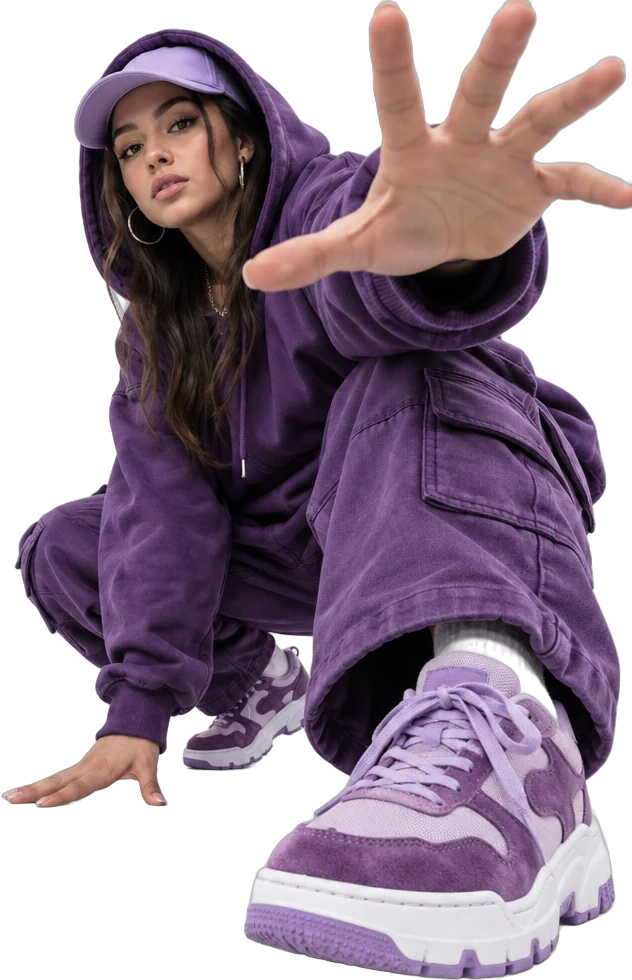
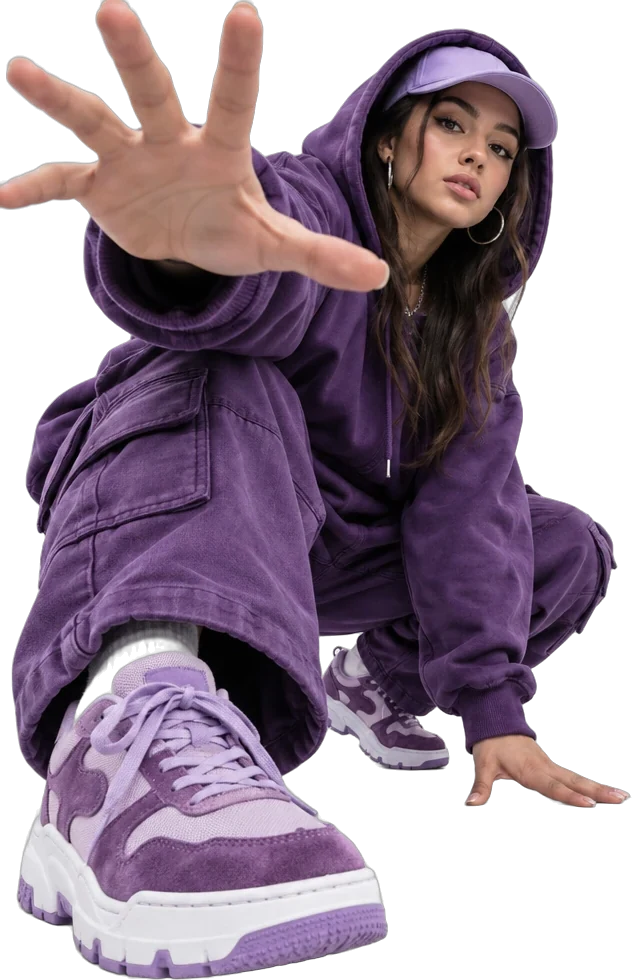
feat(landing): hero claro con tipografía Unbounded, copy PURO FLOW y más profundidad
Claude-Session: https://claude.ai/code/session_01QKjwJzfd5PHUhg3qYS6fT8

diff --git a/frontend/src/estilos/index.css b/frontend/src/estilos/index.css
@@ -1,6 +1,7 @@
 @import url('https://fonts.googleapis.com/css2?family=Anton&display=swap');
 @import url('https://fonts.googleapis.com/css2?family=Inter:wght@300;400;500;600;700&display=swap');
 @import url('https://fonts.googleapis.com/css2?family=Barlow+Condensed:wght@400;600;700;800&display=swap');
+@import url('https://fonts.googleapis.com/css2?family=Unbounded:wght@700;900&display=swap');
 @import 'tailwindcss';
 
 @variant dark (&:where(.dark, .dark *));
@@ -189,7 +190,7 @@ textarea { cursor: text; }
   *, *::before, *::after { transition-duration: 0.01ms !important; }
 }
 /* ---------- Hero del modo claro (titular gigante, persona recortada y foco de tinta lila) ---------- */
-/* Anton con line-height 1: la mayúscula empieza 0.064em bajo el borde superior y la línea base queda a 0.923em */
+/* Unbounded Black con line-height 1: la mayúscula empieza 0.125em bajo el borde y la línea base queda a 0.875em */
 .hc { padding-top: 6rem; }
 .hc-lienzo {
   position: relative;
@@ -201,34 +202,51 @@ textarea { cursor: text; }
   --py: 0;
 }
 .hc-capa { display: contents; }
+.hc-capa-fondo { display: none; }
 .hc-titular {
   display: flex;
   flex-direction: column;
+  font-family: 'Unbounded', 'Anton', sans-serif;
+  font-weight: 900;
   line-height: 1;
+  letter-spacing: -0.02em;
 }
 .hc-linea1,
 .hc-linea2 { white-space: nowrap; }
-.hc-linea1 { font-size: 24cqw; margin-left: -0.03em; }
-.hc-linea2 { font-size: 21cqw; align-self: flex-end; margin-right: -0.03em; margin-top: 0.12em; }
+.hc-linea1 { font-size: 25cqw; margin-left: -0.04em; }
+.hc-linea2 { font-size: 23cqw; align-self: flex-end; margin-right: -0.02em; margin-top: 0.06em; }
 
-/* Cada letra sube desde una máscara que abraza las mayúsculas (deja espacio para tildes) */
-.hc-letra-mascara { clip-path: inset(-0.3em -0.25em 0.077em -0.25em); }
+/* Volumen: el morado tiene una extrusión 3D hacia abajo y la palabra oscura una sombra lila tipo cartel */
+.hc-base-linea1 {
+  color: var(--color-purple-700);
+  text-shadow:
+    0.008em 0.008em 0 #4a3866, 0.016em 0.016em 0 #43325e, 0.024em 0.024em 0 #3c2d56,
+    0.032em 0.032em 0 #36284e, 0.04em 0.04em 0 #2e2240,
+    0.06em 0.09em 0.08em rgba(46, 34, 64, 0.28);
+}
+.hc-base-linea2 {
+  color: #1d1528;
+  text-shadow: 0.045em 0.045em 0 #c9b3f0, 0.07em 0.11em 0.09em rgba(46, 34, 64, 0.18);
+}
+
+/* Cada letra sube desde una máscara que abraza las mayúsculas */
+.hc-letra-mascara { clip-path: inset(-0.3em -0.25em -0.2em -0.25em); }
 .hc-letra { animation: hc-sube 0.9s cubic-bezier(0.22, 1, 0.36, 1) both; }
-@keyframes hc-sube { from { transform: translateY(105%); } to { transform: none; } }
+@keyframes hc-sube { from { transform: translateY(115%); opacity: 0; } to { transform: none; opacity: 1; } }
 
 /* Móvil y tablet: la persona va debajo, sobre un panel lila, montada un poco sobre el titular */
 .hc-capa-persona.hc-capa-base {
   position: relative;
   display: flex;
   justify-content: center;
-  margin-top: -6cqw;
+  margin-top: -4cqw;
 }
 .hc-capa-persona.hc-capa-base::before {
   content: '';
   position: absolute;
   inset: 22% 0 0;
   border-radius: 1.5rem 1.5rem 0 0;
-  background: linear-gradient(180deg, #efe7fb 0%, #e2d4f7 100%);
+  background: radial-gradient(circle at 50% 35%, #f4eefc 0%, #e4d6f8 60%, #d8c6f4 100%);
 }
 .hc-persona {
   position: relative;
@@ -237,6 +255,8 @@ textarea { cursor: text; }
   max-width: 100%;
   object-fit: contain;
 }
+/* Sombra proyectada: una copia de la silueta, oscura y desenfocada, detrás de la persona */
+.hc-sombra-persona { display: none; }
 .hc-persona-entra { animation: hc-persona 1.3s 0.4s cubic-bezier(0.22, 1, 0.36, 1) both; transform-origin: bottom; }
 @keyframes hc-persona {
   from { clip-path: inset(100% 0 0 0); scale: 1.06; }
@@ -253,6 +273,28 @@ textarea { cursor: text; }
   letter-spacing: 0.2em;
 }
 
+/* Sello giratorio */
+.hc-sello { display: none; }
+.hc-sello-texto { width: 100%; height: 100%; animation: hc-gira 18s linear infinite; }
+.hc-sello-texto text {
+  font-family: 'Barlow Condensed', sans-serif;
+  font-weight: 700;
+  font-size: 11.5px;
+  letter-spacing: 2.6px;
+  fill: #1d1528;
+}
+.hc-sello-centro {
+  position: absolute;
+  inset: 30%;
+  display: grid;
+  place-items: center;
+  border-radius: 50%;
+  background: var(--color-purple-700);
+  color: #fff;
+  font-size: 1.1em;
+}
+@keyframes hc-gira { to { rotate: 360deg; } }
+
 /* Composición ancha: todo se coloca sobre un lienzo que ocupa la pantalla, como la referencia */
 @media (min-width: 1024px) and (min-aspect-ratio: 5/4) {
   .hc { height: 100svh; min-height: 620px; padding-top: 0; }
@@ -263,15 +305,38 @@ textarea { cursor: text; }
     padding: 0;
     container-type: size;
     --u: max(min(100cqw / 1280, (100cqh - 40px) / 600), 100cqw / 1600);
-    --top: calc(14 * var(--u));
-    --l2-top: calc(var(--top) + 266 * var(--u));
-    --ph: min(100cqh - var(--top) - 24 * var(--u), 820 * var(--u));
+    --top: calc(18 * var(--u));
+    --l2-top: calc(var(--top) + 236 * var(--u));
+    --ph: min(100cqh - var(--top) - 10 * var(--u), 820 * var(--u));
   }
   .hc-capa { position: absolute; inset: 0; display: block; pointer-events: none; }
+  .hc-capa-fondo { z-index: -1; }
   .hc-capa-titular { z-index: 0; }
   .hc-capa-persona { z-index: 2; }
   .hc-capa-persona.hc-capa-base { position: absolute; display: block; margin: 0; }
   .hc-capa-persona.hc-capa-base::before { display: none; }
+
+  /* Halo lila detrás de la persona y sombra en el piso: dan la sensación de espacio */
+  .hc-halo {
+    position: absolute;
+    right: calc(-60 * var(--u));
+    top: calc(90 * var(--u));
+    width: calc(560 * var(--u));
+    aspect-ratio: 1;
+    border-radius: 50%;
+    background: radial-gradient(circle at 45% 40%, #f1e9fc 0%, #e3d4f8 45%, rgba(227, 212, 248, 0) 70%);
+    translate: calc(var(--px) * 6px) calc(var(--py) * 4px);
+  }
+  .hc-piso {
+    position: absolute;
+    right: calc(10 * var(--u));
+    bottom: calc(-14 * var(--u));
+    width: calc(460 * var(--u));
+    height: calc(48 * var(--u));
+    border-radius: 50%;
+    background: radial-gradient(closest-side, rgba(46, 34, 64, 0.32), rgba(46, 34, 64, 0));
+    translate: calc(var(--px) * 14px) 0;
+  }
 
   /* Las capas base se ocultan dentro del foco; las de tinta solo existen dentro de él */
   .hc-capa-base {
@@ -291,14 +356,14 @@ textarea { cursor: text; }
   .hc-linea1,
   .hc-linea2 { position: absolute; margin: 0; }
   .hc-linea1 {
-    top: calc(var(--top) - 0.064em);
-    left: -0.03em;
-    font-size: calc(240 * var(--u));
+    top: calc(var(--top) - 0.125em);
+    left: -0.04em;
+    font-size: calc(232 * var(--u));
     translate: calc(var(--px) * -6px) calc(var(--py) * -2.4px);
   }
   .hc-linea2 {
-    top: calc(var(--l2-top) - 0.064em);
-    right: -0.03em;
+    top: calc(var(--l2-top) - 0.125em);
+    left: calc(150 * var(--u));
     font-size: calc(215 * var(--u));
     translate: calc(var(--px) * -9px) calc(var(--py) * -2.7px);
   }
@@ -308,32 +373,49 @@ textarea { cursor: text; }
   .hc-persona {
     position: absolute;
     bottom: 0;
-    left: calc(40 * var(--u));
+    right: calc(-6 * var(--u));
     height: var(--ph);
     max-width: none;
     translate: calc(var(--px) * 14px) 0;
+    /* Suaviza el borde izquierdo de la foto, donde termina la mano */
+    -webkit-mask-image: linear-gradient(to right, transparent 0, #000 7%), linear-gradient(to top, #000 55%, transparent 55%);
+    mask-image: linear-gradient(to right, transparent 0, #000 7%), linear-gradient(to top, #000 55%, transparent 55%);
+    -webkit-mask-composite: source-over;
+    mask-composite: add;
   }
   .hc-tinta-persona { filter: url(#fa-tinta-duotono); }
+  .hc-sombra-persona {
+    display: block;
+    filter: brightness(0) blur(14px);
+    opacity: 0.22;
+    translate: calc(var(--px) * 10px - 18 * var(--u)) calc(14 * var(--u));
+  }
+
+  .hc-sello {
+    position: absolute;
+    z-index: 3;
+    display: block;
+    left: calc(560 * var(--u));
+    bottom: calc(34 * var(--u));
+    width: calc(124 * var(--u));
+    height: calc(124 * var(--u));
+    font-size: calc(14 * var(--u));
+    translate: calc(var(--px) * -16px) calc(var(--py) * -8px);
+  }
 
   .hc-acciones {
     position: absolute;
     z-index: 3;
-    left: calc(560 * var(--u));
+    left: 0;
     bottom: calc(30 * var(--u));
     margin: 0;
   }
   .hc-roles { font-size: max(11px, 12 * var(--u)); }
-  .hc-sedes {
-    position: absolute;
-    z-index: 3;
-    right: 0;
-    top: calc(var(--top) + 8 * var(--u));
-    margin: 0;
-    font-size: max(11px, 12 * var(--u));
-  }
+  .hc-sedes { margin-top: calc(18 * var(--u)); font-size: max(11px, 12 * var(--u)); }
 }
 
 @media (prefers-reduced-motion: reduce) {
   .hc-letra,
-  .hc-persona-entra { animation: none; }
+  .hc-persona-entra,
+  .hc-sello-texto { animation: none; }
 }

diff --git a/frontend/src/modulos/landing/componentes/HeroClaro.tsx b/frontend/src/modulos/landing/componentes/HeroClaro.tsx
@@ -62,8 +62,8 @@ export default function HeroClaro() {
   const lienzoRef = useRef<HTMLDivElement>(null);
   const [focoActivo, setFocoActivo] = useState(false);
 
-  const linea1 = t('Bailamos');
-  const linea2 = t('sin límites');
+  const linea1 = t('Puro');
+  const linea2 = 'Flow';
   const altPersona = t('Bailarina urbana agachada estirando la mano hacia la cámara');
 
   // El foco solo existe con mouse, en la composición ancha y sin movimiento reducido; se activa tras la entrada
@@ -166,12 +166,12 @@ export default function HeroClaro() {
         <div className="hc-capa hc-capa-titular hc-capa-base">
           <h1 className="hc-titular display uppercase">
             <span className="sr-only">
-              {linea1} {linea2}
+              {linea1} {linea2}. {t('Academia de Hip Hop urbano en Bello y Copacabana')}
             </span>
-            <span className="hc-linea1 text-purple-700">
+            <span className="hc-linea1 hc-base-linea1">
               <PalabraEnmascarada texto={linea1} retraso={0.1} desde="abajo" />
             </span>
-            <span className="hc-linea2 text-[#1d1528]">
+            <span className="hc-linea2 hc-base-linea2">
               <PalabraEnmascarada texto={linea2} retraso={0.25} desde="arriba" inversa />
             </span>
           </h1>
@@ -186,6 +186,13 @@ export default function HeroClaro() {
             </div>
           </div>
         )}
+
+        {/* Fondo con profundidad: halo lila detrás de la persona y su sombra en el piso */}
+        <div aria-hidden="true" className="hc-capa hc-capa-fondo">
+          <span className="hc-halo" />
+          <span className="hc-piso" />
+          <img src={bailarina} alt="" width={632} height={980} decoding="async" className="hc-persona hc-sombra-persona" />
+        </div>
 
         {/* Persona base */}
         <div className="hc-capa hc-capa-persona hc-capa-base">
@@ -220,17 +227,31 @@ export default function HeroClaro() {
               {t('Conoce más')}
             </button>
           </div>
+        <button type="button" onClick={() => scrollTo('#sedes')} className="hc-sedes group font-condensed uppercase text-[#5a4577]">
+            <span>(est. 2016)</span>
+            <span className="text-[#1d1528]">Bello / Copacabana</span>
+            <span className="grid h-8 w-8 place-items-center rounded-full bg-purple-700 text-white transition-transform duration-300 group-hover:rotate-45 motion-reduce:transition-none" aria-hidden="true">
+              <svg viewBox="0 0 24 24" fill="none" stroke="currentColor" strokeWidth={2.2} className="h-3.5 w-3.5">
+                <path strokeLinecap="round" strokeLinejoin="round" d="M7 17 17 7M9 7h8v8" />
+              </svg>
+            </span>
+          </button>
         </div>
 
-        <button type="button" onClick={() => scrollTo('#sedes')} className="hc-sedes group font-condensed uppercase text-[#5a4577]">
-          <span>(est. 2016)</span>
-          <span className="text-[#1d1528]">Bello / Copacabana</span>
-          <span className="grid h-8 w-8 place-items-center rounded-full bg-purple-700 text-white transition-transform duration-300 group-hover:rotate-45 motion-reduce:transition-none" aria-hidden="true">
-            <svg viewBox="0 0 24 24" fill="none" stroke="currentColor" strokeWidth={2.2} className="h-3.5 w-3.5">
-              <path strokeLinecap="round" strokeLinejoin="round" d="M7 17 17 7M9 7h8v8" />
-            </svg>
-          </span>
-        </button>
+        {/* Sello giratorio */}
+        <div aria-hidden="true" className="hc-sello">
+          <svg viewBox="0 0 120 120" className="hc-sello-texto">
+            <defs>
+              <path id="hc-circulo" d="M60,60 m-46,0 a46,46 0 1,1 92,0 a46,46 0 1,1 -92,0" />
+            </defs>
+            <text>
+              <textPath href="#hc-circulo">F&amp;A DANCE COMPANY • EST. 2016 • HIP HOP •</textPath>
+            </text>
+          </svg>
+          <span className="hc-sello-centro">✦</span>
+        </div>
+
+
       </div>
     </div>
   );

diff --git a/frontend/src/nucleo/i18n/en.ts b/frontend/src/nucleo/i18n/en.ts
@@ -635,4 +635,6 @@ export const en: Record<string, string> = {
   "sin límites": "no limits",
   "Hip Hop urbano · Bello y Copacabana": "Urban Hip Hop · Bello and Copacabana",
   "Bailarina urbana agachada estirando la mano hacia la cámara": "Urban dancer crouching and reaching toward the camera",
+  "Puro": "Pure",
+  "Academia de Hip Hop urbano en Bello y Copacabana": "Urban Hip Hop academy in Bello and Copacabana",
 }
